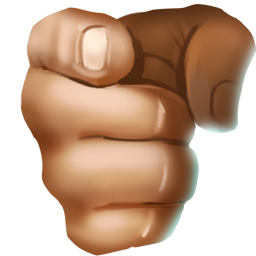
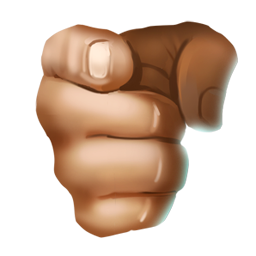
Added various enlargements.

diff --git a/src/monst.c b/src/monst.c
@@ -585,7 +585,7 @@ NEARDATA struct permonst mons[] = {
         M3_INFRAVISIBLE | M3_SPEAKING | M3_CHAT_CAN_JOIN_PARTY, 
         M4_NONE, M5_NONE, M6_NONE, M7_NONE, M8_NONE, 
         22, CLR_BRIGHT_GREEN, MONSTER_SOUNDSET_GENERIC, MONSTER_SOUNDSET_GENERIC),
-    MON("elder gazer", None, "powerful magic-using floating sphere that shoots deadly rays from its eyestalks", None, None, S_EYE, LVL(20, 12, -8, 14, 0, -14),
+    ENLARGED_MON("elder gazer", None, "powerful magic-using floating sphere that shoots deadly rays from its eyestalks", None, None, S_EYE, LVL(20, 12, -8, 14, 0, -14),
         (G_GENO | G_HELL | 1), 
         A(    ATTK(AT_GAZE, AD_CNCL, 0, 0, 0, 0, 0, 0, ATTKFLAG_MUST_SEE_TARGET, 0),
             ATTK(AT_EYES, AD_REY1, 6, 6, 0, 0, 0, 0, 0UL, 0),
@@ -599,7 +599,9 @@ NEARDATA struct permonst mons[] = {
         M2_HOSTILE | M2_NEUTER, 
         M3_INFRAVISIBLE | M3_INFRAVISION | M3_SPEAKING | M3_CHAT_CAN_JOIN_PARTY,
         M4_NONE, M5_NONE, M6_ELDER, M7_WIZARD, M8_NONE,
-        35, HI_LORD, MONSTER_SOUNDSET_GENERIC, MONSTER_SOUNDSET_GENERIC),
+        35, HI_LORD, MONSTER_SOUNDSET_GENERIC, MONSTER_SOUNDSET_GENERIC,
+        ACTION_INFO(ELDER_GAZER_ENLARGEMENT, 0, 0, 0, 0, 0, 0, 0, 0, 0, 0, 0, 0, 0, ELDER_GAZER_STATUE_ENLARGEMENT, 0, 0),
+        ACTION_INFO(ELDER_GAZER_ENLARGEMENT, 0, 0, 0, 0, 0, 0, 0, 0, 0, 0, 0, 0, 0, ELDER_GAZER_STATUE_ENLARGEMENT, 0, 0)),
     MON("death gazer", None, "magic-using undead floating sphere that shoots deadly rays from its eyestalks", None, None, S_EYE, LVL(30, 8, -4, 14, 0, -17),
         (G_GENO | G_HELL | G_NOCORPSE | 1),
         A(    ATTK(AT_GAZE, AD_CNCL, 0, 0, 0, 0, 0, 0, ATTKFLAG_MUST_SEE_TARGET, 0),
@@ -1114,7 +1116,7 @@ NEARDATA struct permonst mons[] = {
         6, HI_DOMESTIC, MONSTER_SOUNDSET_LUGGAGE, MONSTER_SOUNDSET_LUGGAGE,
         ACTION_INFO(LARGE_LUGGAGE_ENLARGEMENT, 0, 0, 0, 0, 0, 0, 0, 0, 0, 0, 0, 0, 0, LARGE_LUGGAGE_STATUE_ENLARGEMENT, 0, 0),
         ACTION_INFO(LARGE_LUGGAGE_ENLARGEMENT, 0, 0, 0, 0, 0, 0, 0, 0, 0, 0, 0, 0, 0, LARGE_LUGGAGE_STATUE_ENLARGEMENT, 0, 0)),
-    MON("large mimic", None, "creature capable of assuming sticking to opponents and the form of items and other objects", None, None, S_MIMIC, LVL(8, 3, 7, 4, 10, 0), (G_GENO | 1),
+    ENLARGED_MON("large mimic", None, "creature capable of assuming sticking to opponents and the form of items and other objects", None, None, S_MIMIC, LVL(8, 3, 7, 4, 10, 0), (G_GENO | 1),
         A(ATTK(AT_CLAW, AD_STCK, 3, 4, 0, 0, 0, 0, 0UL, 0), NO_ATTK, NO_ATTK, NO_ATTK, NO_ATTK,
           NO_ATTK, NO_ATTK, NO_ATTK),
         SIZ(600, 400, MS_SILENT, MZ_LARGE, 0, 0, MAT_FLESH), STATS(18, 9, 18, 5, 9, 1), 
@@ -1122,9 +1124,11 @@ NEARDATA struct permonst mons[] = {
         M1_CLING | M1_BREATHLESS | M1_AMORPHOUS | M1_HIDE | M1_ANIMAL | M1_NOEYES | M1_NONECK | M1_NOLIMBS | M1_THICK_HIDE | M1_CARNIVORE,
         M2_HOSTILE | M2_MIMIC, 
         M3_NONE, 
-        M4_NONE, M5_ATTACK_TILE, M6_NONE, M7_NONE, M8_NONE,
-        6, CLR_RED, MONSTER_SOUNDSET_GENERIC, MONSTER_SOUNDSET_GENERIC),
-    MON("giant mimic", None, "gigantic creature capable of sticking to opponents and assuming the form of items and other objects", None, None, S_MIMIC, LVL(9, 3, 7, 5, 20, 0), (G_GENO | 1),
+        M4_NONE, M5_NONE, M6_NONE, M7_NONE, M8_NONE,
+        6, CLR_RED, MONSTER_SOUNDSET_GENERIC, MONSTER_SOUNDSET_GENERIC,
+        ACTION_INFO(LARGE_MIMIC_ENLARGEMENT, 0, 0, 0, 0, 0, 0, 0, 0, 0, 0, 0, 0, 0, LARGE_MIMIC_STATUE_ENLARGEMENT, 0, 0),
+        ACTION_INFO(LARGE_MIMIC_ENLARGEMENT, 0, 0, 0, 0, 0, 0, 0, 0, 0, 0, 0, 0, 0, LARGE_MIMIC_STATUE_ENLARGEMENT, 0, 0)),
+    ENLARGED_MON("giant mimic", None, "gigantic creature capable of sticking to opponents and assuming the form of items and other objects", None, None, S_MIMIC, LVL(9, 3, 7, 5, 20, 0), (G_GENO | 1),
         A(ATTK(AT_CLAW, AD_STCK, 3, 6, 0, 0, 0, 0, 0UL, 0), ATTK(AT_CLAW, AD_STCK, 3, 6, 0, 0, 0, 0, 0UL, 0), NO_ATTK,
           NO_ATTK, NO_ATTK, NO_ATTK, NO_ATTK, NO_ATTK),
         SIZ(800, 500, MS_SILENT, MZ_LARGE, 0, 0, MAT_FLESH), STATS(STR18(100), 9, 19, 8, 9, 1), 
@@ -1133,8 +1137,10 @@ NEARDATA struct permonst mons[] = {
         M1_CLING | M1_BREATHLESS | M1_AMORPHOUS | M1_HIDE | M1_ANIMAL  | M1_NOEYES | M1_NONECK | M1_NOLIMBS | M1_THICK_HIDE | M1_CARNIVORE,
         M2_HOSTILE | M2_MIMIC,
         M3_NONE,
-        M4_NONE, M5_ATTACK_TILE, M6_NONE, M7_NONE, M8_NONE,
-        9, HI_LORD, MONSTER_SOUNDSET_GENERIC, MONSTER_SOUNDSET_GENERIC),
+        M4_NONE, M5_NONE, M6_NONE, M7_NONE, M8_NONE,
+        9, HI_LORD, MONSTER_SOUNDSET_GENERIC, MONSTER_SOUNDSET_GENERIC,
+        ACTION_INFO(GIANT_MIMIC_ENLARGEMENT, 0, 0, 0, 0, 0, 0, 0, 0, 0, 0, 0, 0, 0, GIANT_MIMIC_STATUE_ENLARGEMENT, 0, 0),
+        ACTION_INFO(GIANT_MIMIC_ENLARGEMENT, 0, 0, 0, 0, 0, 0, 0, 0, 0, 0, 0, 0, 0, GIANT_MIMIC_STATUE_ENLARGEMENT, 0, 0)),
     ENLARGED_MON("Gargantuan Mimic", None, "uniquely gigantic creature capable of sticking to opponents and assuming the form of items and other objects", None, None, S_MIMIC, LVL(12, 9, 2, 10, 30, 0), (G_NOGEN | G_UNIQ),
         A(ATTK(AT_CLAW, AD_STCK, 3, 8, 0, 0, 0, 0, 0UL, 0), ATTK(AT_CLAW, AD_STCK, 3, 8, 0, 0, 0, 0, 0UL, 0), NO_ATTK,
           NO_ATTK, NO_ATTK, NO_ATTK, NO_ATTK, NO_ATTK),
@@ -1161,7 +1167,7 @@ NEARDATA struct permonst mons[] = {
         20, HI_DOMESTIC, MONSTER_SOUNDSET_LUGGAGE, MONSTER_SOUNDSET_LUGGAGE,
         ACTION_INFO(GIANT_LUGGAGE_ENLARGEMENT, 0, 0, 0, 0, 0, 0, 0, 0, 0, 0, 0, 0, 0, GIANT_LUGGAGE_STATUE_ENLARGEMENT, 0, 0),
         ACTION_INFO(GIANT_LUGGAGE_ENLARGEMENT, 0, 0, 0, 0, 0, 0, 0, 0, 0, 0, 0, 0, 0, GIANT_LUGGAGE_STATUE_ENLARGEMENT, 0, 0)),
-    MON("chaos mimic", None, "abyssal variety of mimic capable of sticking to opponents and assuming the form of items and other objects", None, None, S_MIMIC, LVL(16, 12, -2, 12, 40, 0), (G_HELL | G_GENO | 1),
+    ENLARGED_MON("chaos mimic", None, "abyssal variety of mimic capable of sticking to opponents and assuming the form of items and other objects", None, None, S_MIMIC, LVL(16, 12, -2, 12, 40, 0), (G_HELL | G_GENO | 1),
         A(ATTK(AT_CLAW, AD_STCK, 3, 10, 0, 0, 0, 0, 0UL, 0), ATTK(AT_CLAW, AD_STCK, 3, 10, 0, 0, 0, 0, 0UL, 0), ATTK(AT_CLAW, AD_STCK, 3, 10, 0, 0, 0, 0, 0UL, 0), NO_ATTK,
           NO_ATTK, NO_ATTK, NO_ATTK, NO_ATTK),
         SIZ(1200, 700, MS_SILENT, MZ_HUGE, 0, 0, MAT_FLESH), STATS(STR19(20), 9, 23, 13, 9, 1), 
@@ -1170,8 +1176,10 @@ NEARDATA struct permonst mons[] = {
         M1_CLING | M1_BREATHLESS | M1_AMORPHOUS | M1_HIDE | M1_ANIMAL | M1_NOEYES | M1_NONECK | M1_NOLIMBS | M1_THICK_HIDE | M1_CARNIVORE,
         M2_HOSTILE | M2_MIMIC, 
         M3_NONE, 
-        M4_NONE, M5_ATTACK_TILE, M6_NONE, M7_NONE, M8_NONE,
-        26, CLR_ORANGE, MONSTER_SOUNDSET_GENERIC, MONSTER_SOUNDSET_GENERIC),
+        M4_NONE, M5_NONE, M6_NONE, M7_NONE, M8_NONE,
+        26, CLR_ORANGE, MONSTER_SOUNDSET_GENERIC, MONSTER_SOUNDSET_GENERIC,
+        ACTION_INFO(CHAOS_MIMIC_ENLARGEMENT, 0, 0, 0, 0, 0, 0, 0, 0, 0, 0, 0, 0, 0, CHAOS_MIMIC_STATUE_ENLARGEMENT, 0, 0),
+        ACTION_INFO(CHAOS_MIMIC_ENLARGEMENT, 0, 0, 0, 0, 0, 0, 0, 0, 0, 0, 0, 0, 0, CHAOS_MIMIC_STATUE_ENLARGEMENT, 0, 0)),
     /*
      * nymphs
      */

diff --git a/src/animdef.c b/src/animdef.c
@@ -8558,7 +8558,62 @@ NEARDATA struct enlargement_definition enlargements[MAX_ENLARGEMENTS] =
         { 0, 0, 0, 0, 0 },
         { 0, 0, 0, 0, 0 }
       },
-
+      { "elder-gazer-enlargement", 0, 0,
+        5,
+        3, 2, 0,
+        { 0, 1, 2, 3, 4 },
+        { 0, 0, 0, 0, 0 },
+        { 0, 0, 0, 0, 0 }
+      },
+      { "elder-gazer-statue-enlargement", 0, 0,
+        5,
+        3, 2, 0,
+        { 0, 1, 2, 3, 4 },
+        { 0, 0, 0, 0, 0 },
+        { 0, 0, 0, 0, 0 }
+      },
+      { "large-mimic-enlargement", 0, 0,
+        2,
+        3, 1, 0,
+        { -1, -1, -1, 0, 1 },
+        { 0, 0, 0, 0, 0 },
+        { 0, 0, 0, 0, 0 }
+      },
+      { "large-mimic-statue-enlargement", 0, 0,
+        2,
+        3, 1, 0,
+        { -1, -1, -1, 0, 1 },
+        { 0, 0, 0, 0, 0 },
+        { 0, 0, 0, 0, 0 }
+      },
+      { "giant-mimic-enlargement", 0, 0,
+        2,
+        3, 1, 0,
+        { -1, -1, -1, 0, 1 },
+        { 0, 0, 0, 0, 0 },
+        { 0, 0, 0, 0, 0 }
+      },
+      { "giant-mimic-statue-enlargement", 0, 0,
+        2,
+        3, 1, 0,
+        { -1, -1, -1, 0, 1 },
+        { 0, 0, 0, 0, 0 },
+        { 0, 0, 0, 0, 0 }
+      },
+      { "chaos-mimic-enlargement", 0, 0,
+        5,
+        3, 2, 0,
+        { 0, 1, 2, 3, 4 },
+        { 0, 0, 0, 0, 0 },
+        { 0, 0, 0, 0, 0 }
+      },
+      { "chaos-mimic-statue-enlargement", 0, 0,
+        5,
+        3, 2, 0,
+        { 0, 1, 2, 3, 4 },
+        { 0, 0, 0, 0, 0 },
+        { 0, 0, 0, 0, 0 }
+      },
 };
 
 NEARDATA struct replacement_definition replacements[MAX_REPLACEMENTS] =

diff --git a/include/animation.h b/include/animation.h
@@ -1834,6 +1834,14 @@ enum enlargement_types
     MEDIUM_LUGGAGE_STATUE_ENLARGEMENT,
     LARGE_LUGGAGE_ENLARGEMENT,
     LARGE_LUGGAGE_STATUE_ENLARGEMENT,
+    ELDER_GAZER_ENLARGEMENT,
+    ELDER_GAZER_STATUE_ENLARGEMENT,
+    LARGE_MIMIC_ENLARGEMENT,
+    LARGE_MIMIC_STATUE_ENLARGEMENT,
+    GIANT_MIMIC_ENLARGEMENT,
+    GIANT_MIMIC_STATUE_ENLARGEMENT,
+    CHAOS_MIMIC_ENLARGEMENT,
+    CHAOS_MIMIC_STATUE_ENLARGEMENT,
     MAX_ENLARGEMENTS
 };
 
